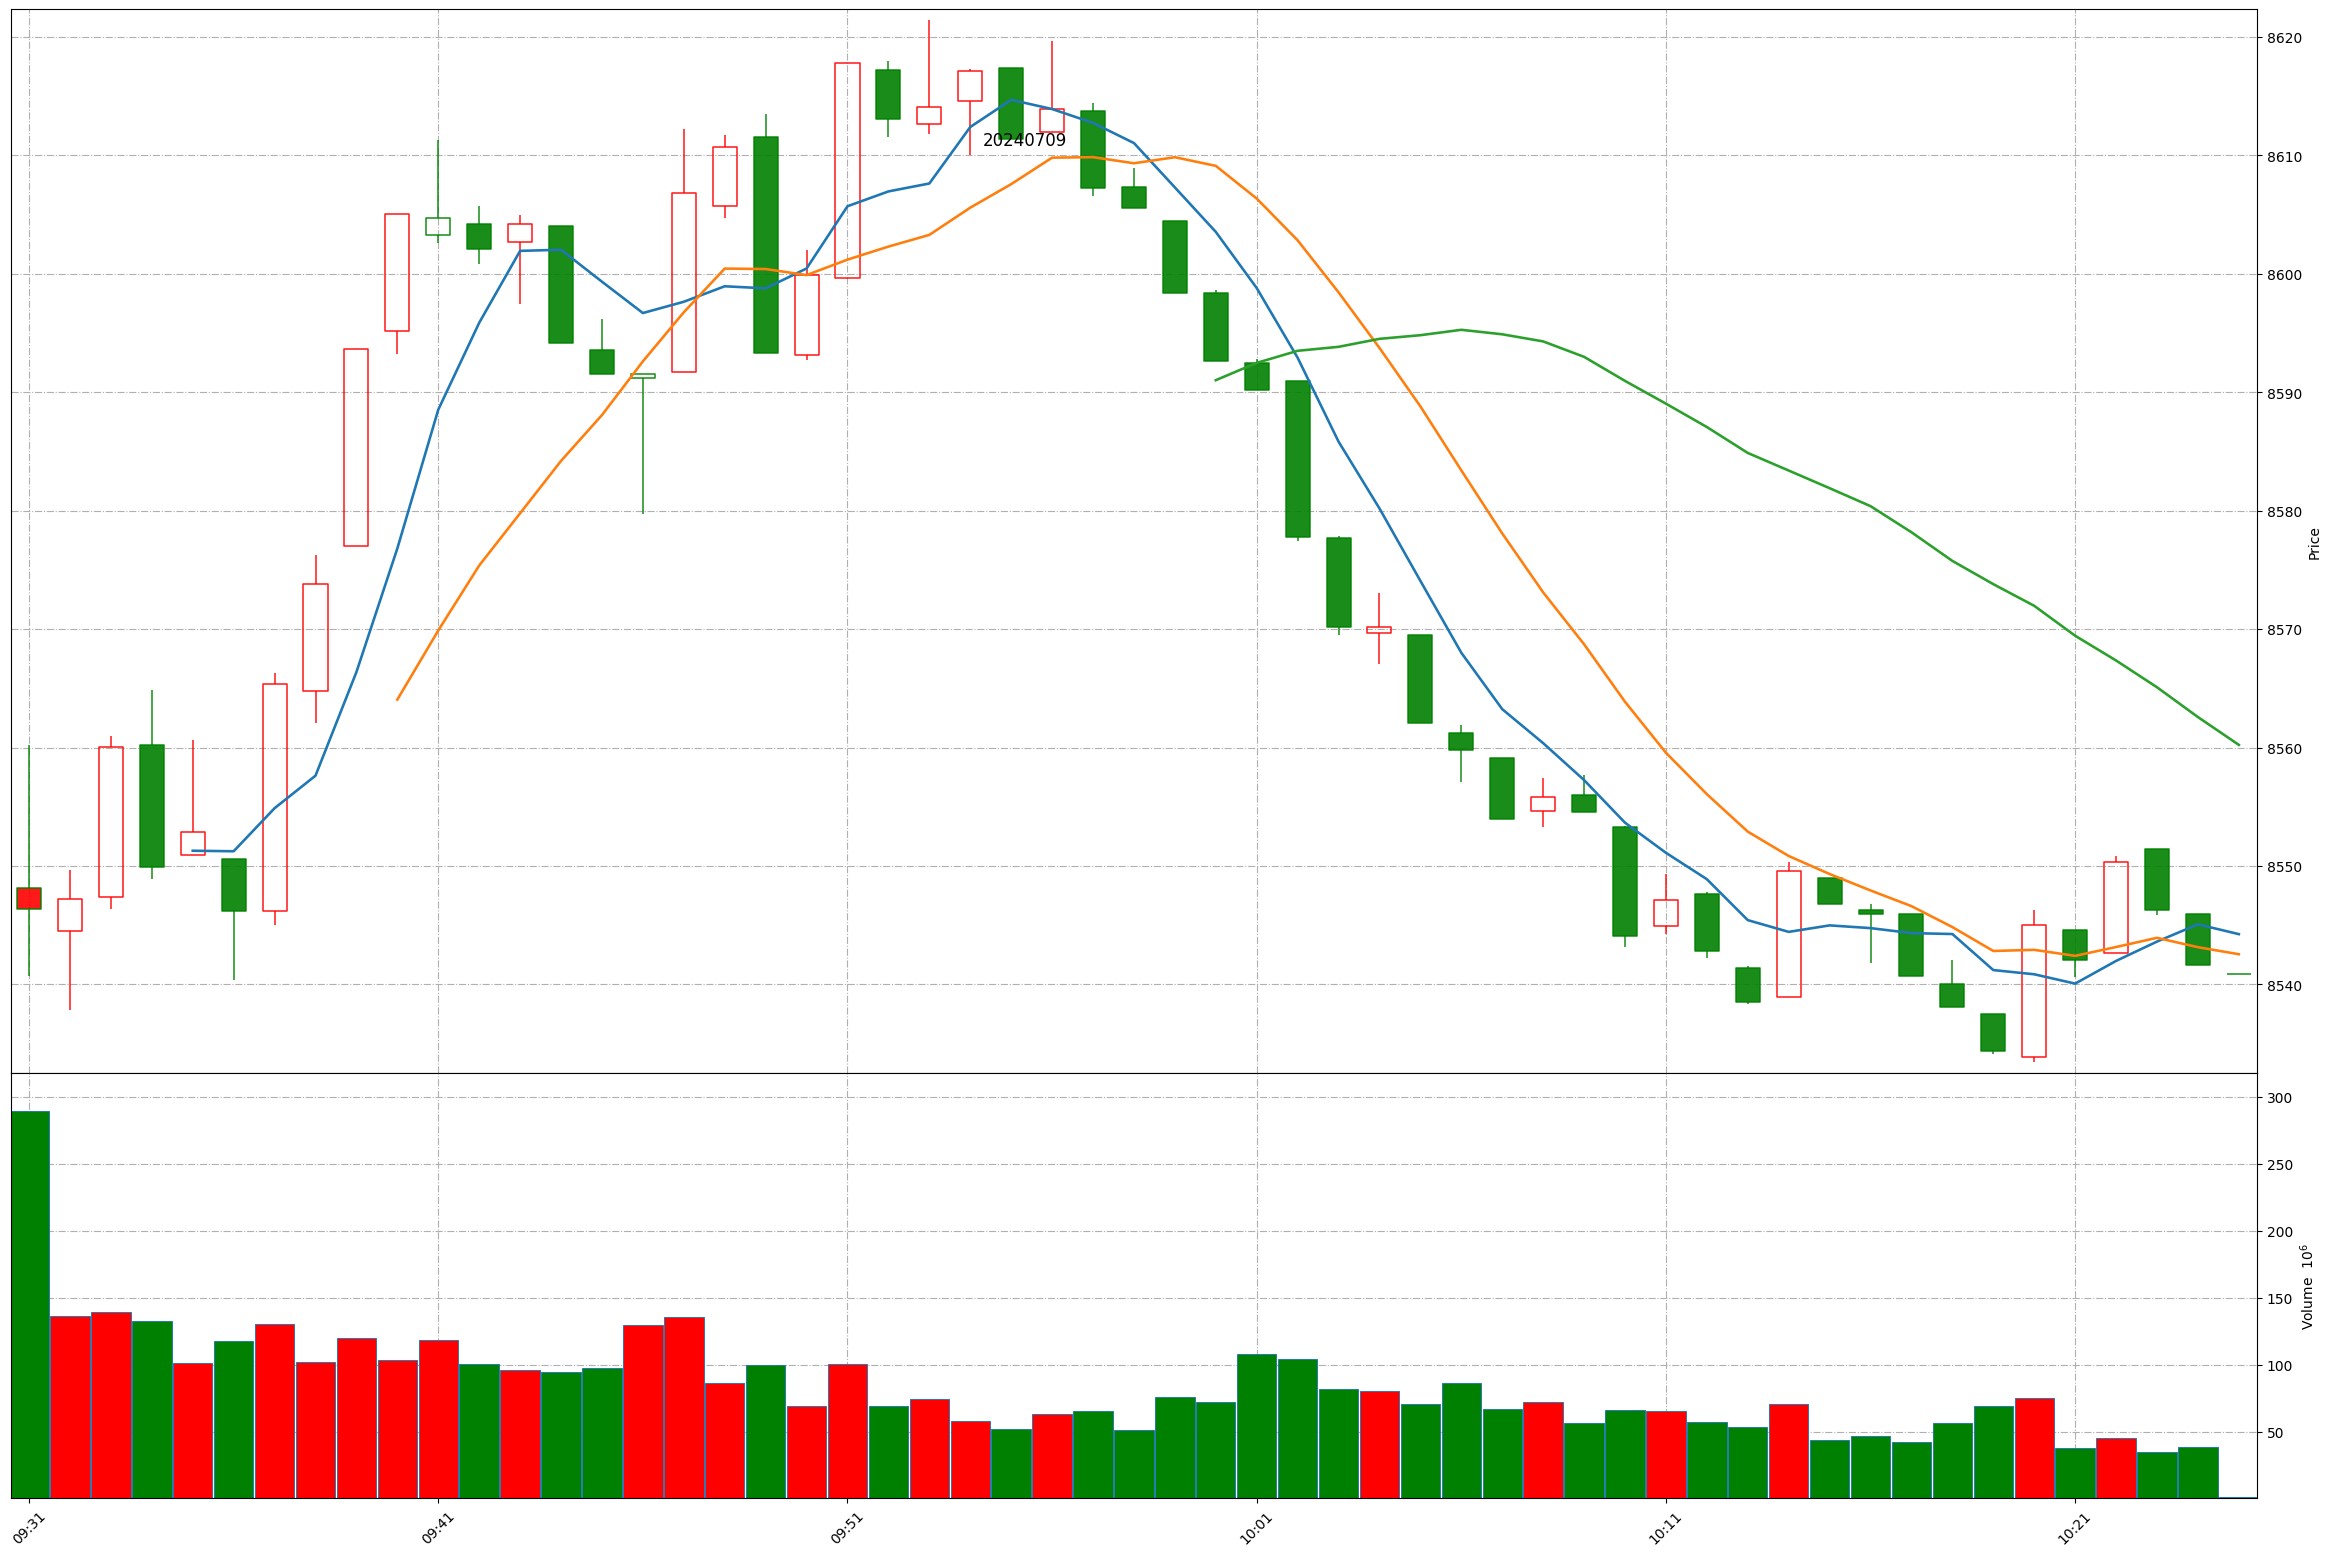
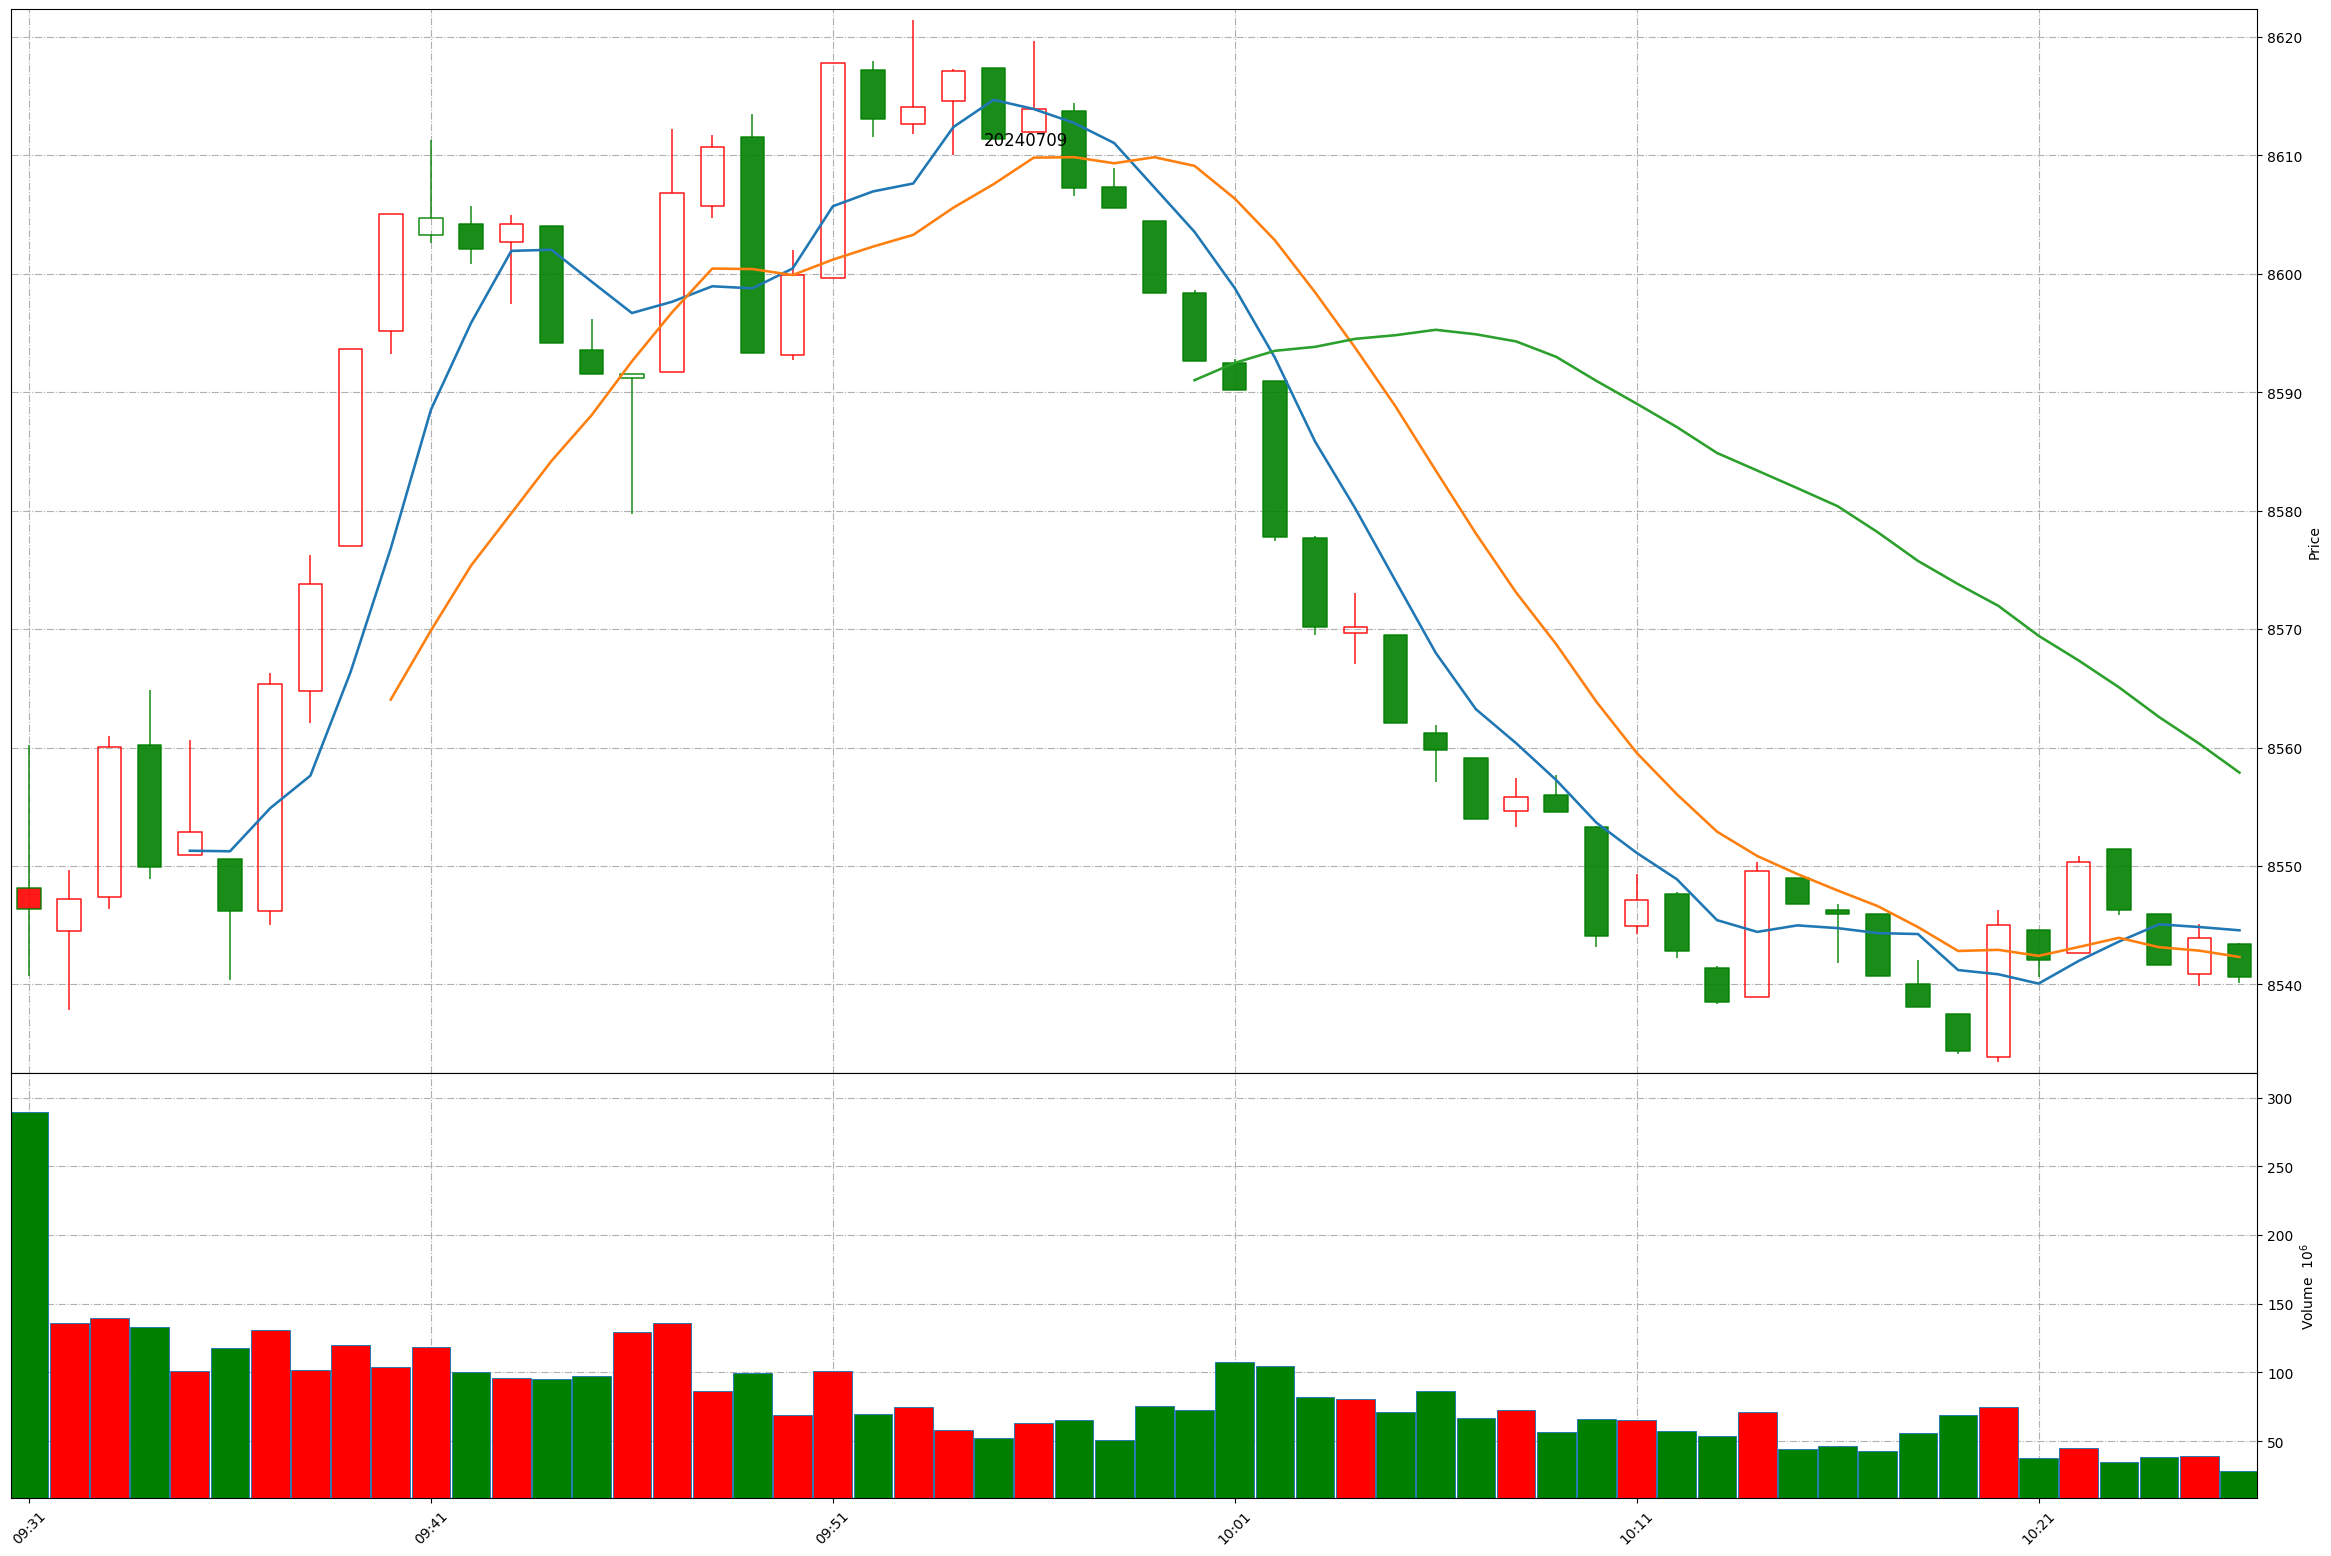
Github action update at 2024-07-09 10:26:05.

diff --git a/README.md b/README.md
@@ -1,11 +1,11 @@
 
 # Daily-A-share-market-quotes 每日 A 股指数（5min 更新）- 20240709
 
-### 上证指数 20240709 10:24
+### 上证指数 20240709 10:26
 ![](./fig/2024/7/20240709-sh000001.png)
 
-### 深证成指 20240709 10:24
+### 深证成指 20240709 10:26
 ![](./fig/2024/7/20240709-sz399001.png)
 
-### 北证50 20240709 10:24
+### 北证50 20240709 10:26
 ![](./fig/2024/7/20240709-bj899050.png)
